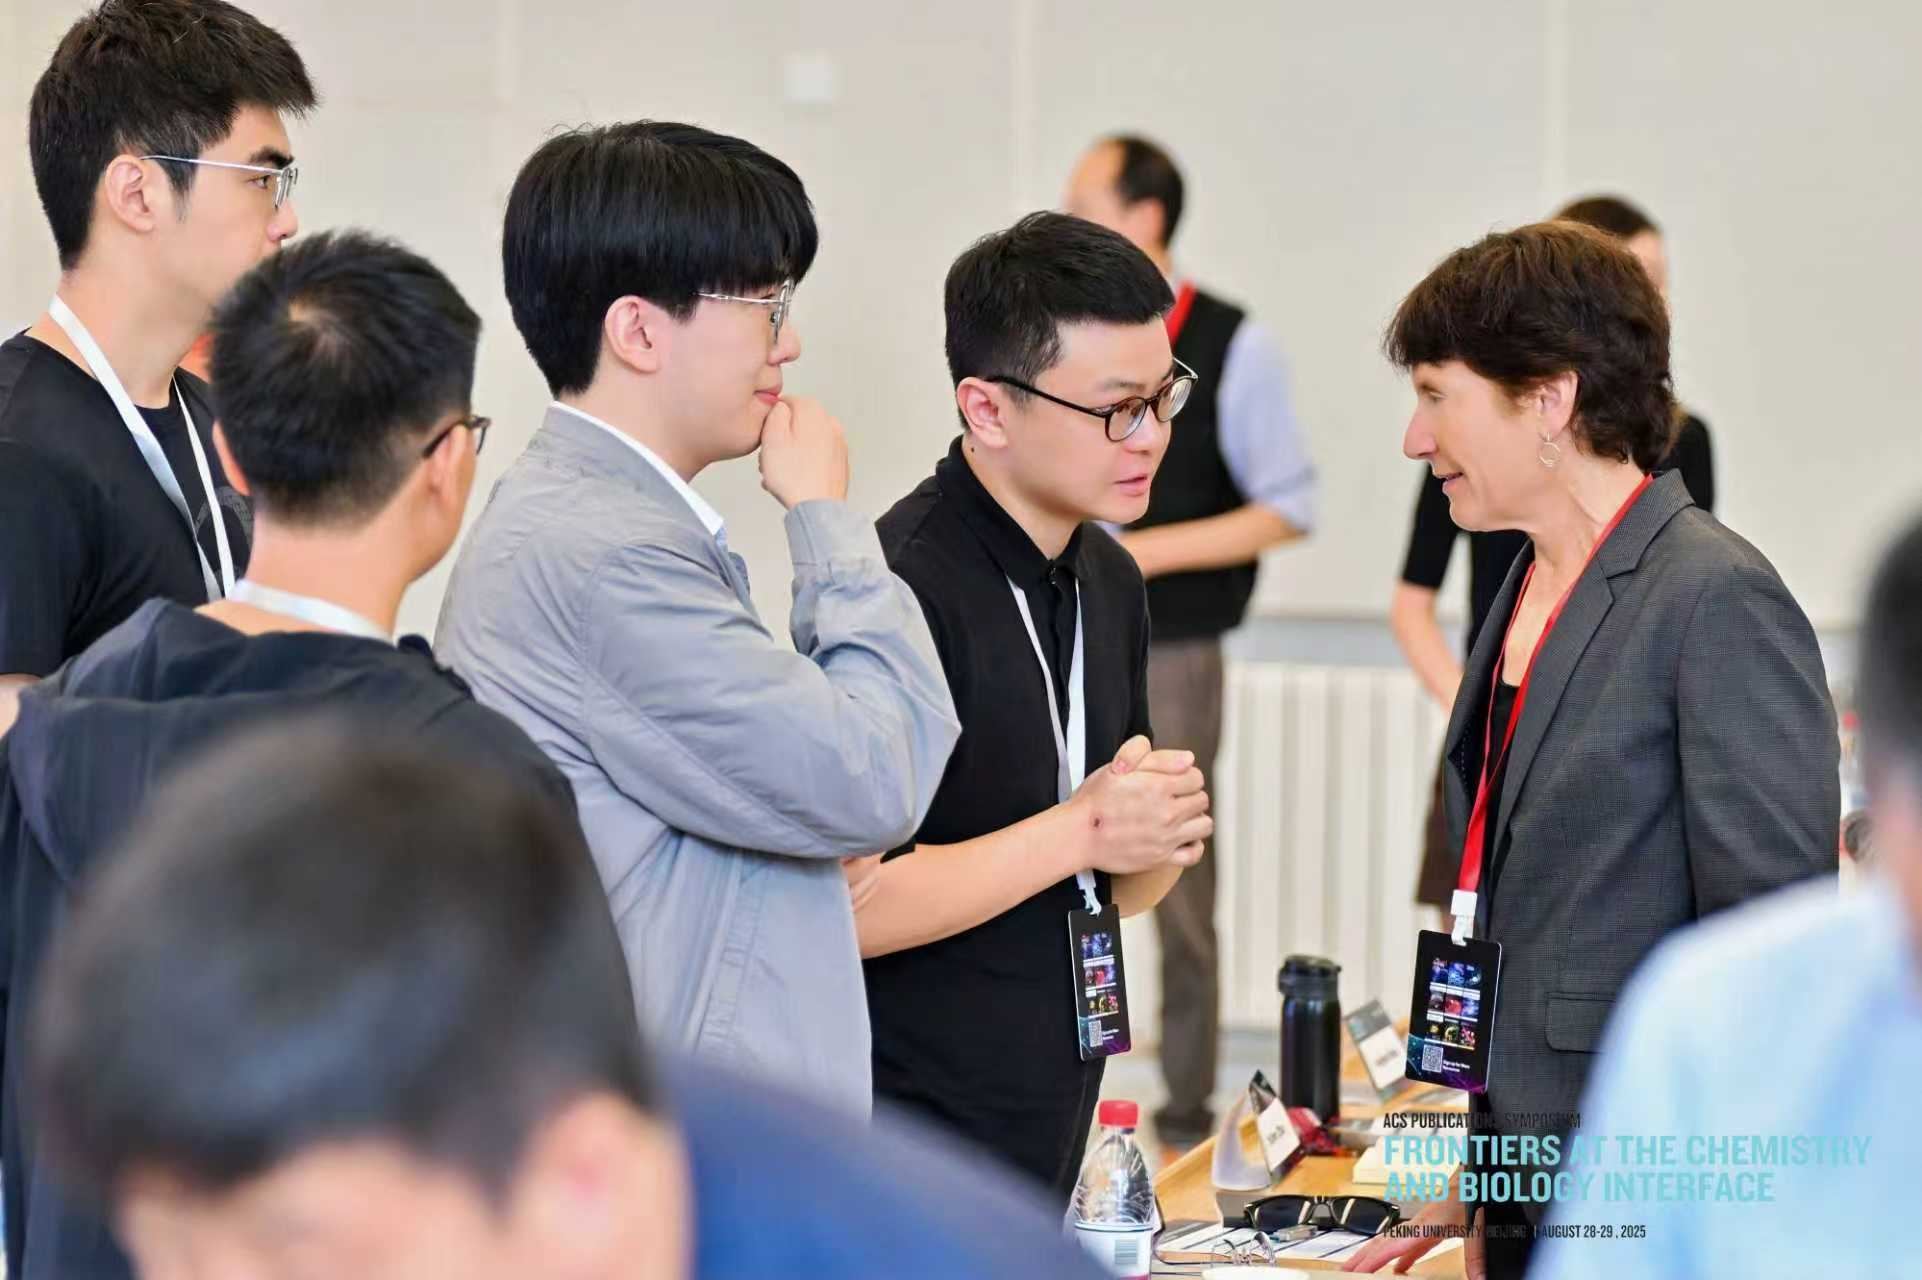
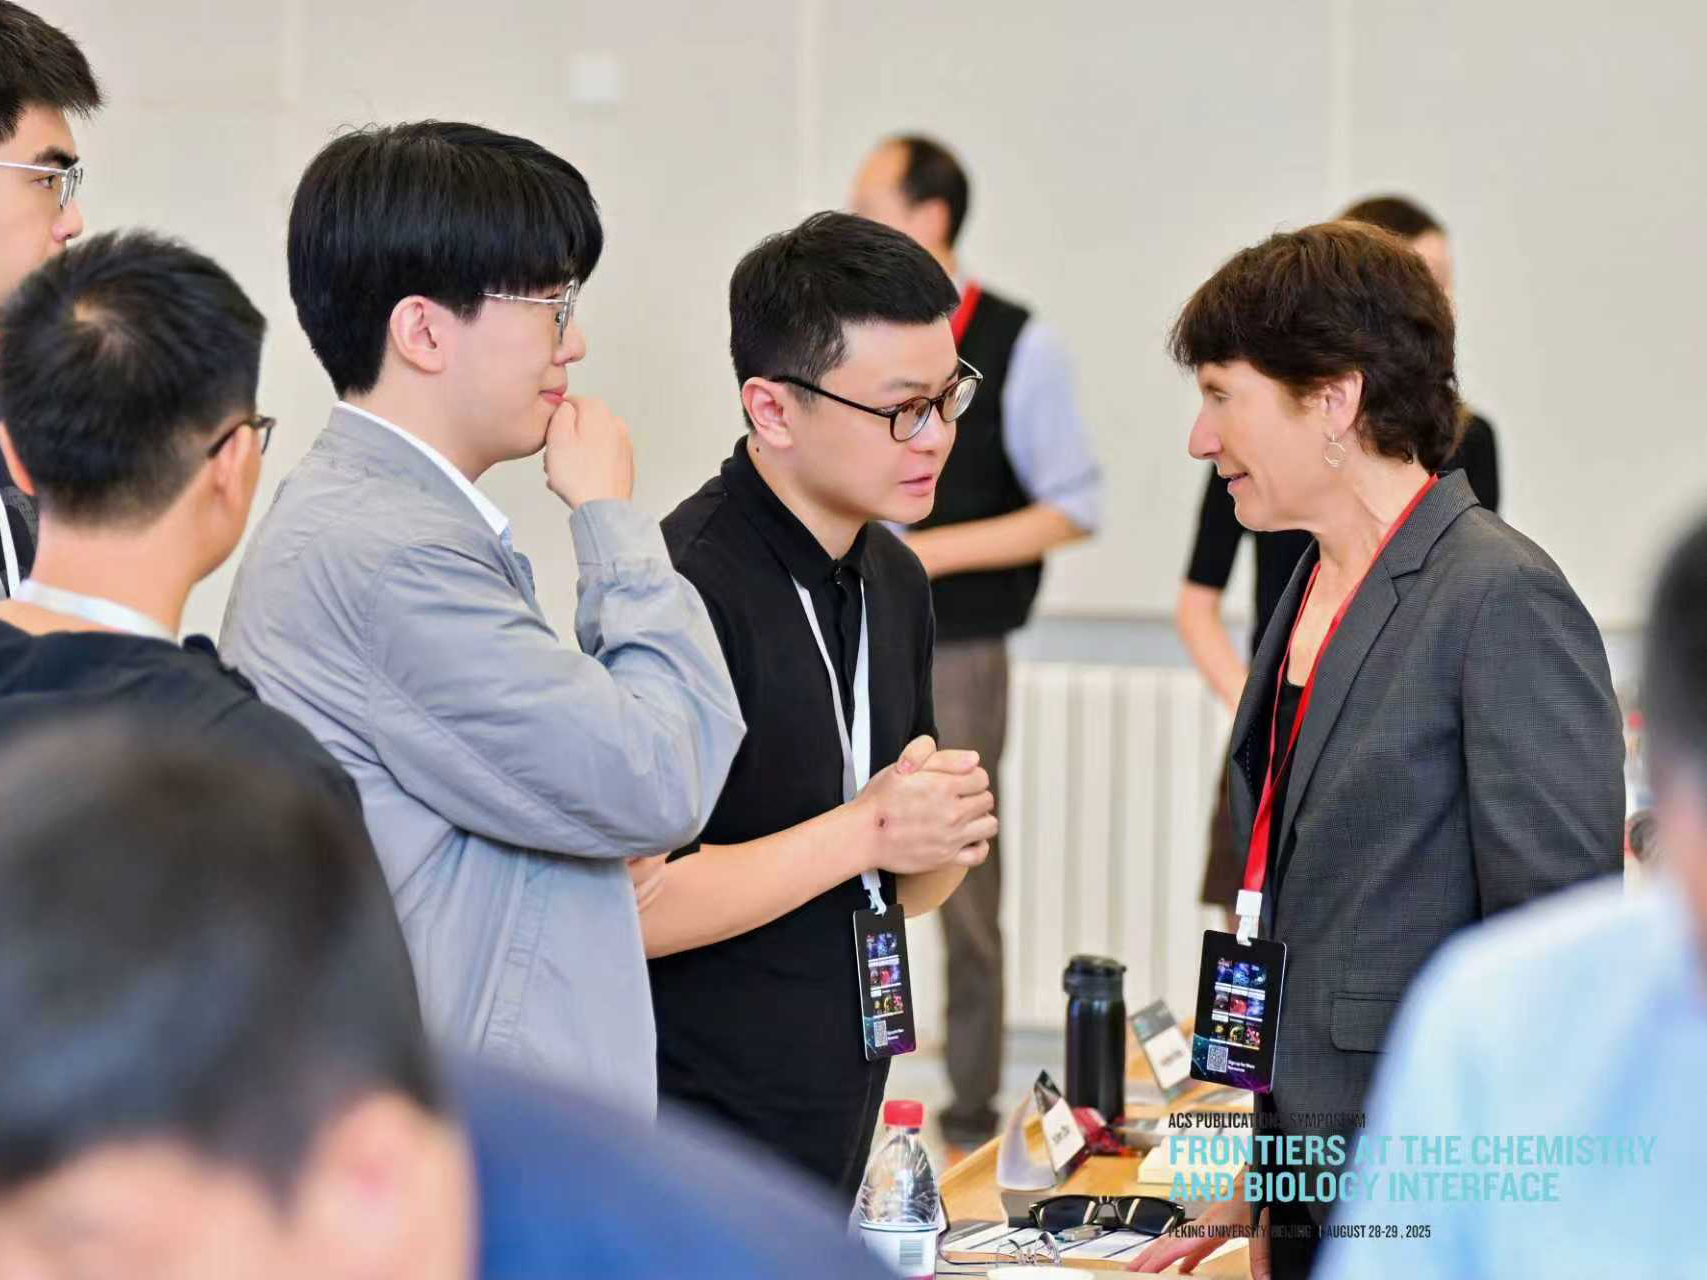
update publications

diff --git a/index.html b/index.html
@@ -382,6 +382,15 @@
     <!-- Portfolio Wrapper -->
 
     <div class="isotope fadeInLeft animated wow grid photo_pos"  id="portfolio_wrapper">
+        <figure  class="portfolio-item one-four  Meetings  isotope-item effect-oscar news-photo">
+            <div class="portfolio_img"> <img src="img/pics/20251115haikou.jpg" alt="Portfolio 1"> </div>
+            <figcaption>
+                <div class="news-text">
+                    <a href="img/pics/20251115haikou.jpg" class="fancybox">
+                    <h2><nobr>2025.11.15</nobr></h2><p>海口 《应睐青年PI培训班》</p></a>
+                </div>
+            </figcaption>
+        </figure>
         <figure  class="portfolio-item one-four  Publications  isotope-item effect-oscar news-photo">
             <div class="portfolio_img"> <img src="img/pics/202511YLreview.jpg" alt="Portfolio 1"> </div>
             <figcaption>
@@ -393,12 +402,30 @@
 				</div>
 			</figcaption>
         </figure>
-        <figure  class="portfolio-item one-four  MEETINGS  isotope-item effect-oscar news-photo">
+        <figure  class="portfolio-item one-four  Meetings  isotope-item effect-oscar news-photo">
+            <div class="portfolio_img"> <img src="img/pics/20251107haiyou.jpg" alt="Portfolio 1"> </div>
+            <figcaption>
+                <div class="news-text">
+                    <a href="img/pics/20251107haiyou.jpg" class="fancybox">
+                    <h2><nobr>2025.11.07</nobr></h2><p>传来那期盼已久的好消息</p></a>
+                </div>
+            </figcaption>
+        </figure>
+        <figure  class="portfolio-item one-four  Meetings  isotope-item effect-oscar news-photo">
+            <div class="portfolio_img"> <img src="img/pics/20251024nanchang.jpg" alt="Portfolio 1"> </div>
+            <figcaption>
+                <div class="news-text">
+                    <a href="img/pics/20251024nanchang.jpg" class="fancybox">
+                    <h2><nobr>2025.10.24</nobr></h2><p>南昌 《中国生物化学与分子生物学会年会》</p></a>
+                </div>
+            </figcaption>
+        </figure>
+        <figure  class="portfolio-item one-four  Meetings  isotope-item effect-oscar news-photo">
             <div class="portfolio_img"> <img src="img/pics/20251015.jpg" alt="Portfolio 1"> </div>
             <figcaption>
                 <div class="news-text">
                     <a href="img/pics/20251015.jpg" class="fancybox">
-                    <h2><nobr>2025.10.15</nobr></h2><p>广州 HUPO</p></a>
+                    <h2><nobr>2025.10.15</nobr></h2><p>广州《13th CNHUPO》</p></a>
                 </div>
             </figcaption>
         </figure>
@@ -413,19 +440,30 @@
                 </div>
             </figcaption>
         </figure>
-         <figure  class="portfolio-item one-four  MEETINGS  isotope-item effect-oscar news-photo">
+        <figure  class="portfolio-item one-four  Meetings  isotope-item effect-oscar news-photo">
+         <div class="portfolio_img"> <img src="img/pics/20250920zhengzhou.JPG" alt="Portfolio 1"> </div>
+         <figcaption>
+        <div  class="news-text">
+        <a href="img/pics/20250920zhengzhou.JPG" class="fancybox">
+        <h2>2025.09.20 <span></span></h2>
+             <p>郑州《中国质谱学术大会》</p>
+
+      </a>
+    </div>
+</figcaption>
+     </figure>
+        <figure  class="portfolio-item one-four  Meetings  isotope-item effect-oscar news-photo">
          <div class="portfolio_img"> <img src="img/pics/20250828beijing.jpg" alt="Portfolio 1"> </div>
          <figcaption>
-    <div  class="news-text">
-      <a href="img/pics/20250828beijing.jpg" class="fancybox">
-       <h2>2025.08.28 <span></span></h2>
+        <div  class="news-text">
+        <a href="img/pics/20250828beijing.jpg" class="fancybox">
+        <h2>2025.08.28 <span></span></h2>
              <p>北京  ACS</p>
                    <p>《Frontiers at the Chemistry and Biology Interface》</p>
       </a>
     </div>
 </figcaption>
      </figure>
-
         <figure  class="portfolio-item one-four  People  isotope-item effect-oscar news-photo">
             <div class="portfolio_img"> <img src="img/pics/20250811zhubochen.jpg" alt="Portfolio 1"> </div>
             <figcaption>
@@ -438,7 +476,7 @@
 				</div>
 			</figcaption>
         </figure>
-         <figure  class="portfolio-item one-four  People  isotope-item effect-oscar news-photo">
+        <figure  class="portfolio-item one-four  People  isotope-item effect-oscar news-photo">
             <div class="portfolio_img"> <img src="img/pics/20250811zhouyitong.jpg" alt="Portfolio 1"> </div>
             <figcaption>
 				<div  class="news-text">
@@ -450,7 +488,16 @@
 				</div>
 			</figcaption>
         </figure>
-         <figure  class="portfolio-item one-four  Publications  isotope-item effect-oscar news-photo">
+        <figure  class="portfolio-item one-four  Meetings  isotope-item effect-oscar news-photo">
+            <div class="portfolio_img"> <img src="img/pics/20250809chengdu.jpg" alt="Portfolio 1"> </div>
+            <figcaption>
+                <div class="news-text">
+                    <a href="img/pics/20250809chengdu.jpg" class="fancybox">
+                    <h2><nobr>2025.08.09</nobr></h2><p>成都《全国糖生物学年会》</p></a>
+                </div>
+            </figcaption>
+        </figure>
+        <figure  class="portfolio-item one-four  Publications  isotope-item effect-oscar news-photo">
             <div class="portfolio_img"> <img src="img/pics/202508NC.jpg" alt="Portfolio 1"> </div>
             <figcaption>
 				<div  class="news-text">
@@ -472,7 +519,7 @@
 				</div>
 			</figcaption>
         </figure>
-         <figure  class="portfolio-item one-four isotope-item effect-oscar news-photo">
+        <figure  class="portfolio-item one-four isotope-item effect-oscar news-photo">
             <div class="portfolio_img"> <img src="img/pics/20250531lanzhou.jpg" alt="Portfolio 1"> </div>
             <figcaption>
 				<div  class="news-text">
@@ -482,6 +529,15 @@
 				  </a>
 				</div>
 			</figcaption>
+        </figure>
+        <figure  class="portfolio-item one-four  Meetings  isotope-item effect-oscar news-photo">
+            <div class="portfolio_img"> <img src="img/pics/20250511luoyang.jpg" alt="Portfolio 1"> </div>
+            <figcaption>
+                <div class="news-text">
+                    <a href="img/pics/20250511luoyang.jpg" class="fancybox">
+                    <h2><nobr>2025.05.11</nobr></h2><p>洛阳 《全国RNA青年学术会议》</p></a>
+                </div>
+            </figcaption>
         </figure>
         <figure  class="portfolio-item one-four  Meetings  isotope-item effect-oscar news-photo">
             <div class="portfolio_img"> <img src="img/pics/nanjing20250428.jpg" alt="Portfolio 1"> </div>
@@ -517,7 +573,7 @@
            </div>
 			</figcaption>
         </figure>
-      <figure  class="portfolio-item one-four  Meetings  isotope-item effect-oscar news-photo">
+        <figure  class="portfolio-item one-four  Meetings  isotope-item effect-oscar news-photo">
         <div class="portfolio_img"> <img src="img/pics/guangzhou.jpg" alt="Portfolio 1"> </div>
        <figcaption>
            <div  class="news-text">
@@ -528,7 +584,7 @@
            </div>
 			</figcaption>
         </figure>
-      <figure  class="portfolio-item one-four  People  isotope-item effect-oscar news-photo">
+        <figure  class="portfolio-item one-four  People  isotope-item effect-oscar news-photo">
         <div class="portfolio_img"> <img src="img/pics/jiuyu.jpg" alt="Portfolio 1"> </div>
        <figcaption>
 				<div  class="news-text">
@@ -540,7 +596,7 @@
 			</figcaption>
         </figure>
       <!-- Portfolio Item -->
-      <figure class="portfolio-item one-four Meetings isotope-item effect-oscar news-photo">
+        <figure class="portfolio-item one-four Meetings isotope-item effect-oscar news-photo">
 
         <div class="portfolio_img">
 		<img src="img/pics/202411zhanjiang.JPG"  alt="Portfolio 1"> </div>
@@ -555,7 +611,7 @@
         </figure>
       <!--/Portfolio Item -->
       <!-- Portfolio Item-->
-      <figure class="portfolio-item one-four  Meetings isotope-item effect-oscar news-photo">
+        <figure class="portfolio-item one-four  Meetings isotope-item effect-oscar news-photo">
         <div class="portfolio_img"> <img src="img/pics/202409nanjing.JPG" alt="Portfolio 1"> </div>
         	<figcaption>
 				<div  class="news-text">
@@ -568,7 +624,7 @@
         </figure>
       <!--/Portfolio Item -->
       <!-- Portfolio Item -->
-      <figure  class="portfolio-item one-four  People  isotope-item effect-oscar news-photo">
+        <figure  class="portfolio-item one-four  People  isotope-item effect-oscar news-photo">
         <div class="portfolio_img"> <img src="img/pics/20250609yili.png" alt="Portfolio 1"> </div>
        <figcaption>
 				<div  class="news-text">
@@ -579,9 +635,8 @@
 				</div>
 			</figcaption>
         </figure>
-      <!--/Portfolio Item-->
-      <!-- Portfolio Item-->
-      <figure class="portfolio-item one-four  People isotope-item effect-oscar news-photo">
+
+        <figure class="portfolio-item one-four  People isotope-item effect-oscar news-photo">
         <div class="portfolio_img"> <img src="img/pics/sleep.JPG" alt="Portfolio 1"> </div>
          <figcaption>
 				<div  class="news-text">
@@ -594,7 +649,7 @@
       </figure>
       <!-- Portfolio Item -->
       <!-- Portfolio Item-->
-      <figure class="portfolio-item one-four Team isotope-item effect-oscar news-photo">
+      <!--<figure class="portfolio-item one-four Team isotope-item effect-oscar news-photo">
         <div class="portfolio_img"> <img src="img/pics/group1.JPG" alt="Portfolio 1"> </div>
          <figcaption>
 				<div class="news-text">
@@ -604,7 +659,7 @@
 				  </a>
 				</div>
 			</figcaption>
-      </figure>
+      </figure>-->
     </div>
   </div>
 
@@ -750,6 +805,7 @@
                         Proceedings of the National Academy of Sciences of the United States of America vol. 122,25 (2025): e2422936122.
                     </p>
                     </div>
+               </div>
 
 
                 <div class="year" id="2024">
@@ -763,8 +819,7 @@
                         Molecular & cellular proteomics : MCP, 24(1), 100897.
                     </p>
                 </div>
-                </div>
-                <div class="publication">
+                    <div class="publication">
                     <p>
                         Xie, Y., Brás-Costa, C., Lin, Z., & Garcia, B. A. (2024),
                         <a href="https://doi.org/10.1002/mas.21907" target="_self" style="color: rgb(23, 54, 93); text-decoration: underline;">
@@ -773,7 +828,8 @@
                         Mass spectrometry reviews.
                     </p>
                 </div>
-            </div>
+                </div>
+
                 <div class="year" id="2017">
                 <div class="custom-heading-year">Prior to Independent Research</div>
                 <div class="publication">
